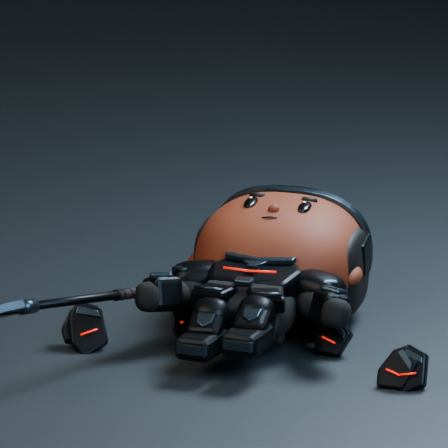
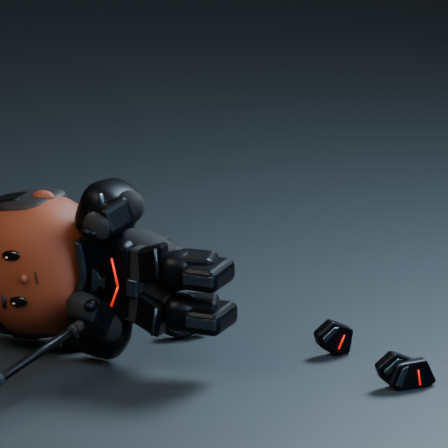
test(ferrha): refresh pose previews and verify paused turning

diff --git a/scripts/preview_ferrha_v2.py b/scripts/preview_ferrha_v2.py
@@ -1,13 +1,19 @@
 from pathlib import Path
 import bpy,json
+from mathutils import Vector
 OUT=Path(__file__).resolve().parents[1]/'assets'/'characters'/'ferrha'
 (OUT/'previews'/'v2').mkdir(exist_ok=True)
 bpy.ops.wm.open_mainfile(filepath=str(OUT/'Ferrha_v2.blend'))
 scene=bpy.context.scene;rig=bpy.data.objects['Ferrha_Rig'];scene.cycles.samples=10
 scene.render.resolution_x=448;scene.render.resolution_y=448
 for t in rig.animation_data.nla_tracks:t.mute=True
-for name,frame in [('Idle',15),('Walk',8),('Attack_A',8),('Attack_B',10),('Attack_C',12),('Barrier',25),('Death',54)]:
+for name,frame in [('Idle',15),('Walk',8),('Attack_A',8),('Attack_B',11),('Attack_C',13),('Barrier',30),('Death',54)]:
     rig.animation_data.action=bpy.data.actions[name];scene.frame_set(frame)
+    scene.render.filepath=str(OUT/'previews'/'v2'/f'{name}.png');bpy.ops.render.render(write_still=True)
+rig.animation_data.action=bpy.data.actions['Idle'];scene.frame_set(0)
+for name,pos in [('Hair_Rear',(2,5,2.5)),('Hair_Profile',(5,0,2))]:
+    scene.camera.location=pos;scene.camera.data.type='ORTHO';scene.camera.data.ortho_scale=2.65
+    scene.camera.rotation_euler=(Vector((0,0,.78))-scene.camera.location).to_track_quat('-Z','Y').to_euler()
     scene.render.filepath=str(OUT/'previews'/'v2'/f'{name}.png');bpy.ops.render.render(write_still=True)
 rig.animation_data.action=bpy.data.actions['Walk']
 foot=[]
